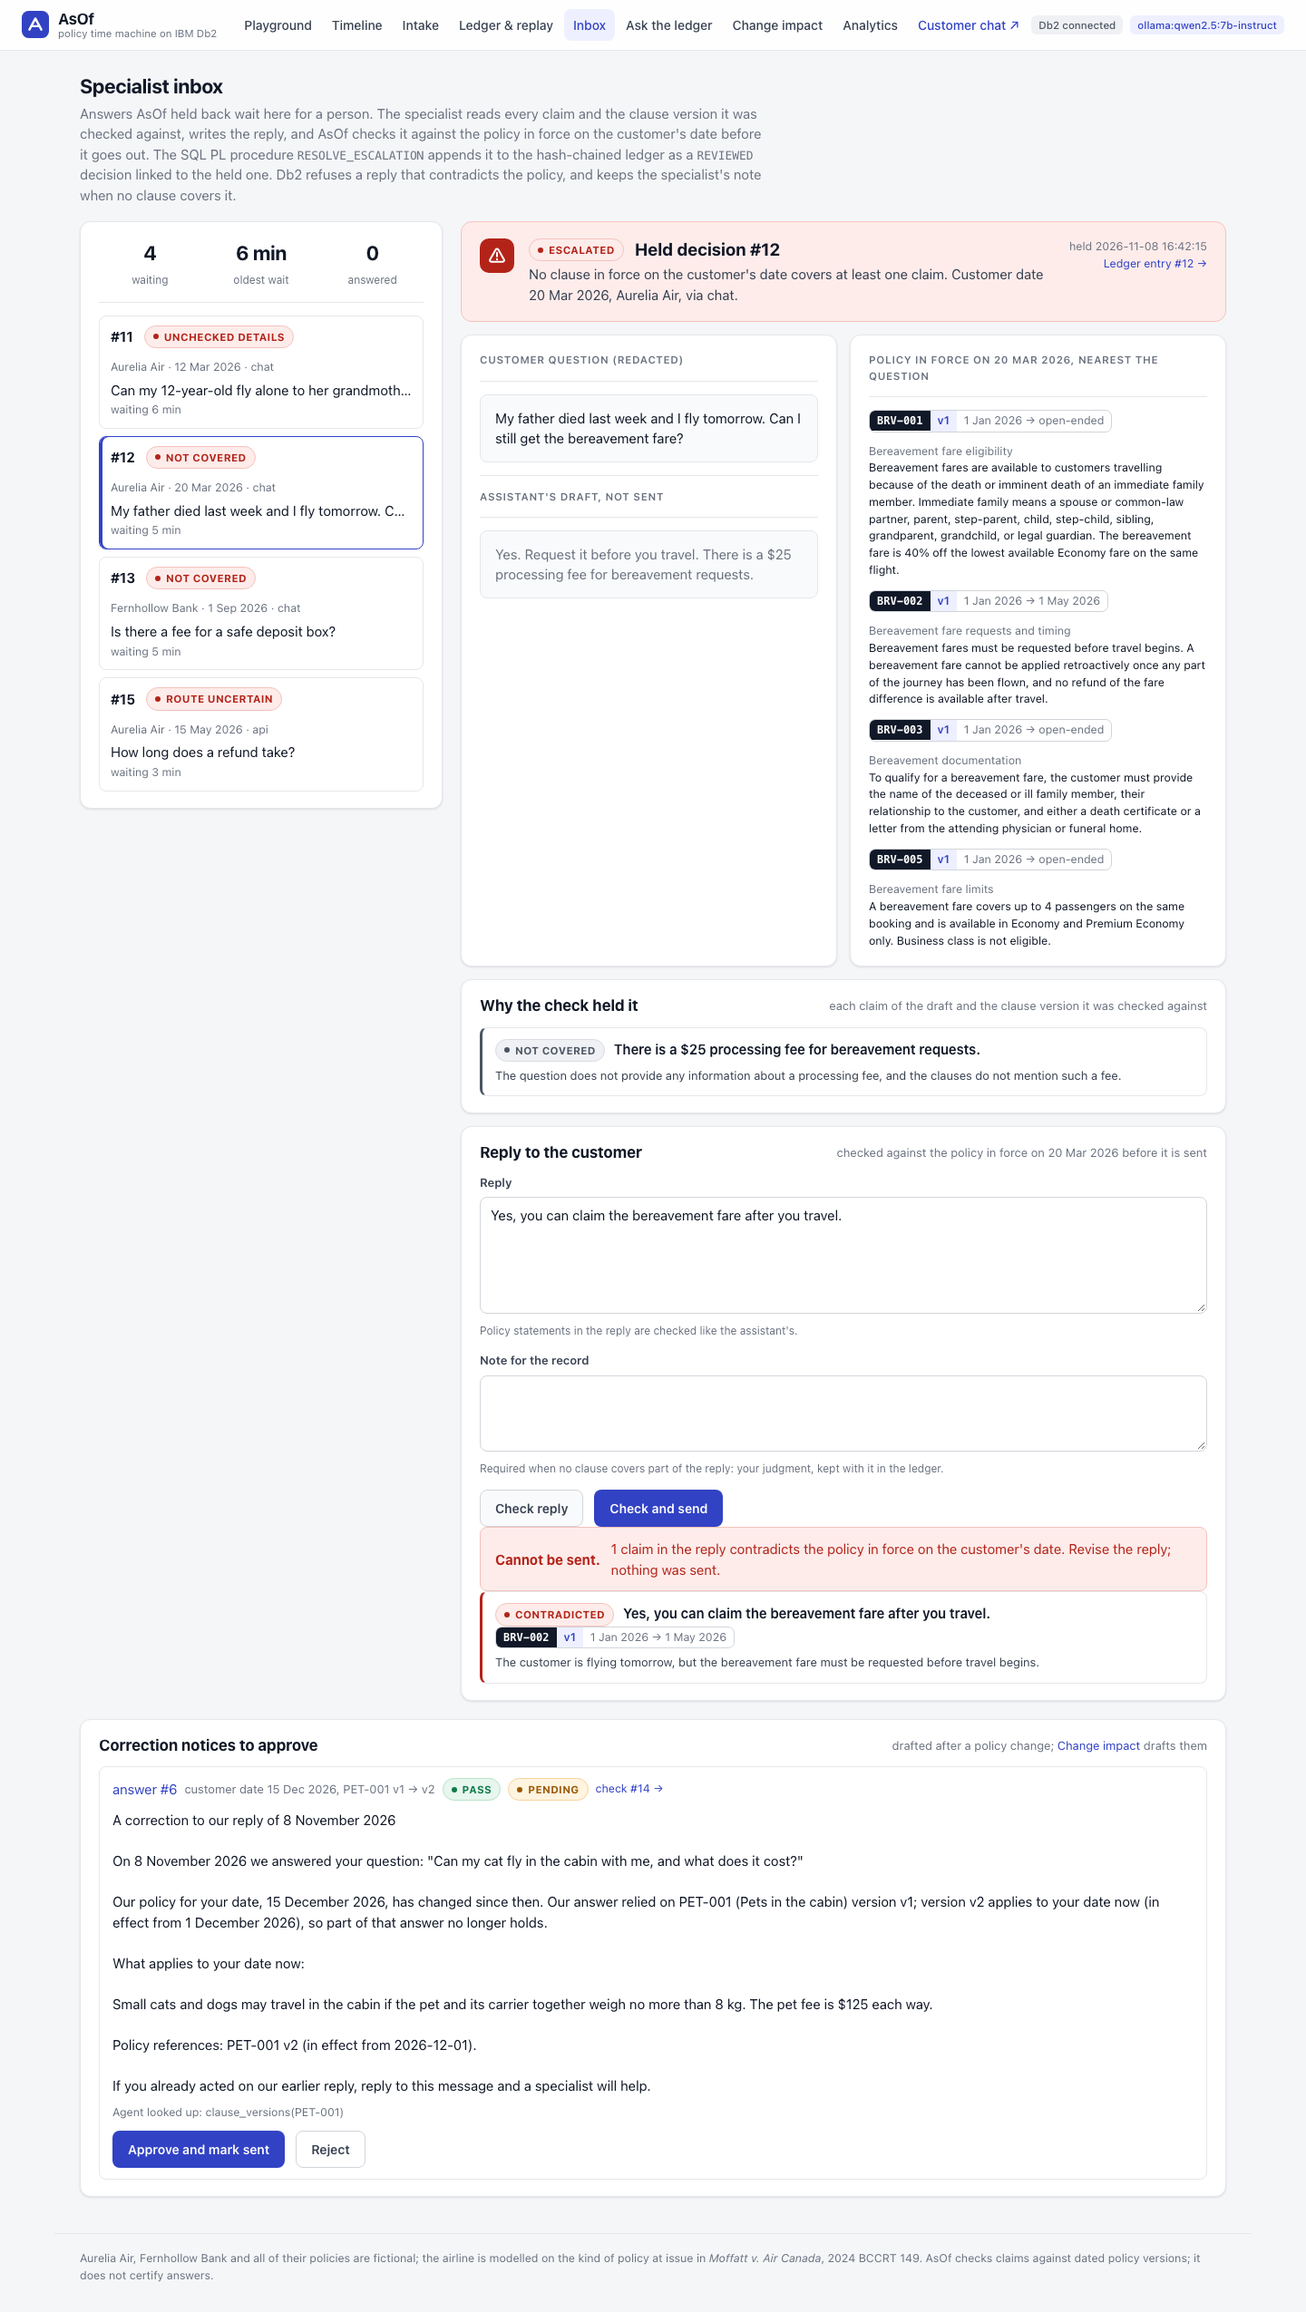
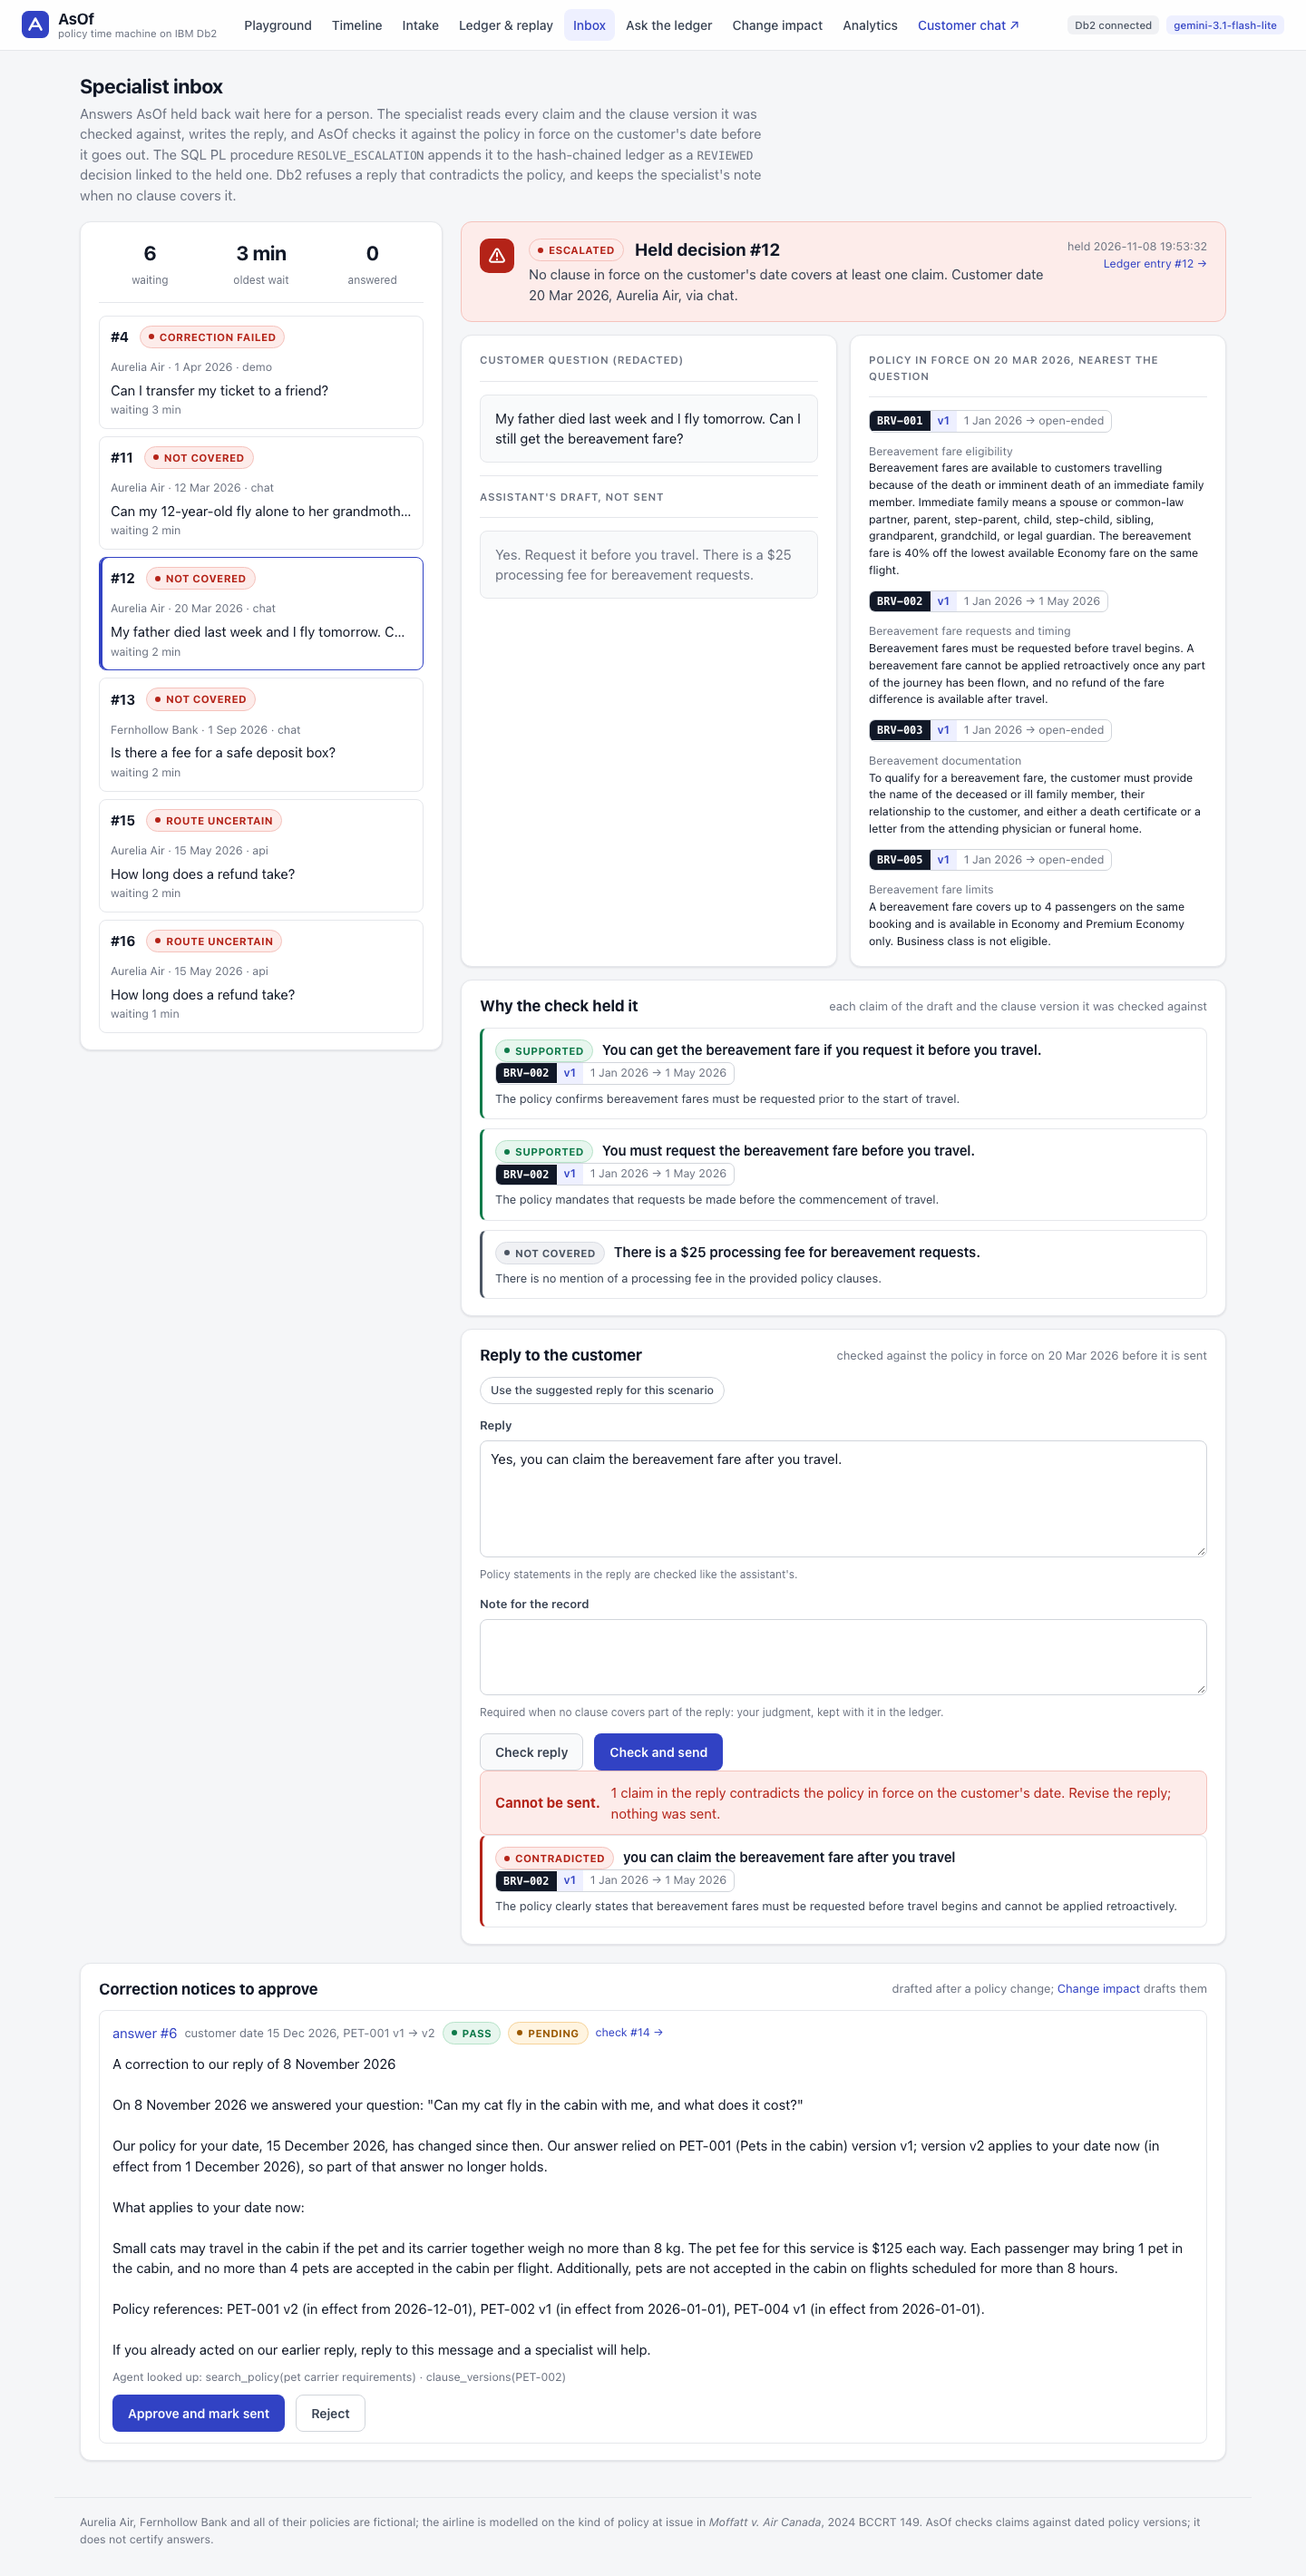
docs(asof): retake the inbox, notice, diff and routing screenshots on the hosted model

diff --git a/submissions/asof/README.md b/submissions/asof/README.md
@@ -813,7 +813,7 @@ Both policy documents run through the same screens: the playground has two bank 
 | ![The pet fee change previewed: Db2 applied it, ran CHANGE_IMPACT and rolled back, nothing saved](docs/screenshots/14-impact-preview.png) | ![A receipt checked against the ledger: entry #1 is intact](docs/screenshots/15-receipt-check.png) |
 | ![Policy intake: the sample revision as a draft, each proposal shown against the version in force with its checks](docs/screenshots/16-policy-intake-draft.png) | ![The draft approved: BAG-001 v3, BAG-006 v1 and CRD-001 v2 in force, the restated clause not applied](docs/screenshots/17-policy-intake-approved.png) |
 | ![The specialist inbox: a held decision with its claims and the policy in force, and a reply that contradicts BRV-002 v1 refused before anything is sent](docs/screenshots/20-specialist-inbox.png) | ![A correction notice for the customer told $100 for a December trip: the $125 correction checked against PET-001 v2, waiting for a specialist](docs/screenshots/21-correction-notice.png) |
-| ![Two versions of BRV-002 compared from Db2's history: the text word by word, three RULE_JSON values changed, embedding distance 0.13](docs/screenshots/22-version-diff.png) | ![Routing an ambiguous draft: Db2's vote was a close call, so AsOf held it for a person instead of guessing](docs/screenshots/23-routing-asks.png) |
+| ![Two versions of BRV-002 compared from Db2's history: the text word by word, three RULE_JSON values changed, embedding distance 0.13](docs/screenshots/22-version-diff.png) | ![Routing an ambiguous draft: Db2's vote was a close call and the routing agent answered NEITHER, so AsOf held it for a person instead of guessing](docs/screenshots/23-routing-asks.png) |
 | ![The customer chat for a March booking: the assistant's retroactive promise struck through, the corrected reply citing BRV-002 v1](docs/screenshots/18-customer-chat-corrected.png) | ![The same chat later: a December pet answer corrected to the $125 fee in PET-001 v2, then a travel-credit answer the policy does not cover passed to a specialist](docs/screenshots/19-customer-chat.png) |
 
 **The change-impact story in four clicks:** run `python -m asof.demo` (it records pet-fee answers for a November and a December trip), open **Change impact**, choose the preset "Pet fee to $125 from 1 Dec 2026", and apply it. Db2 splits PET-001 into v1 (to 1 Dec) and v2 (from 1 Dec) with `FOR PORTION OF BUSINESS_TIME`. `CHANGE_IMPACT` reports the November answer as historically valid, the December answer as stale (the customer was told $100 for a trip that now costs $125), and help-centre answer PA-PET-001 as needing review from 1 Dec 2026. Replay on the December entry shows all three states side by side.
